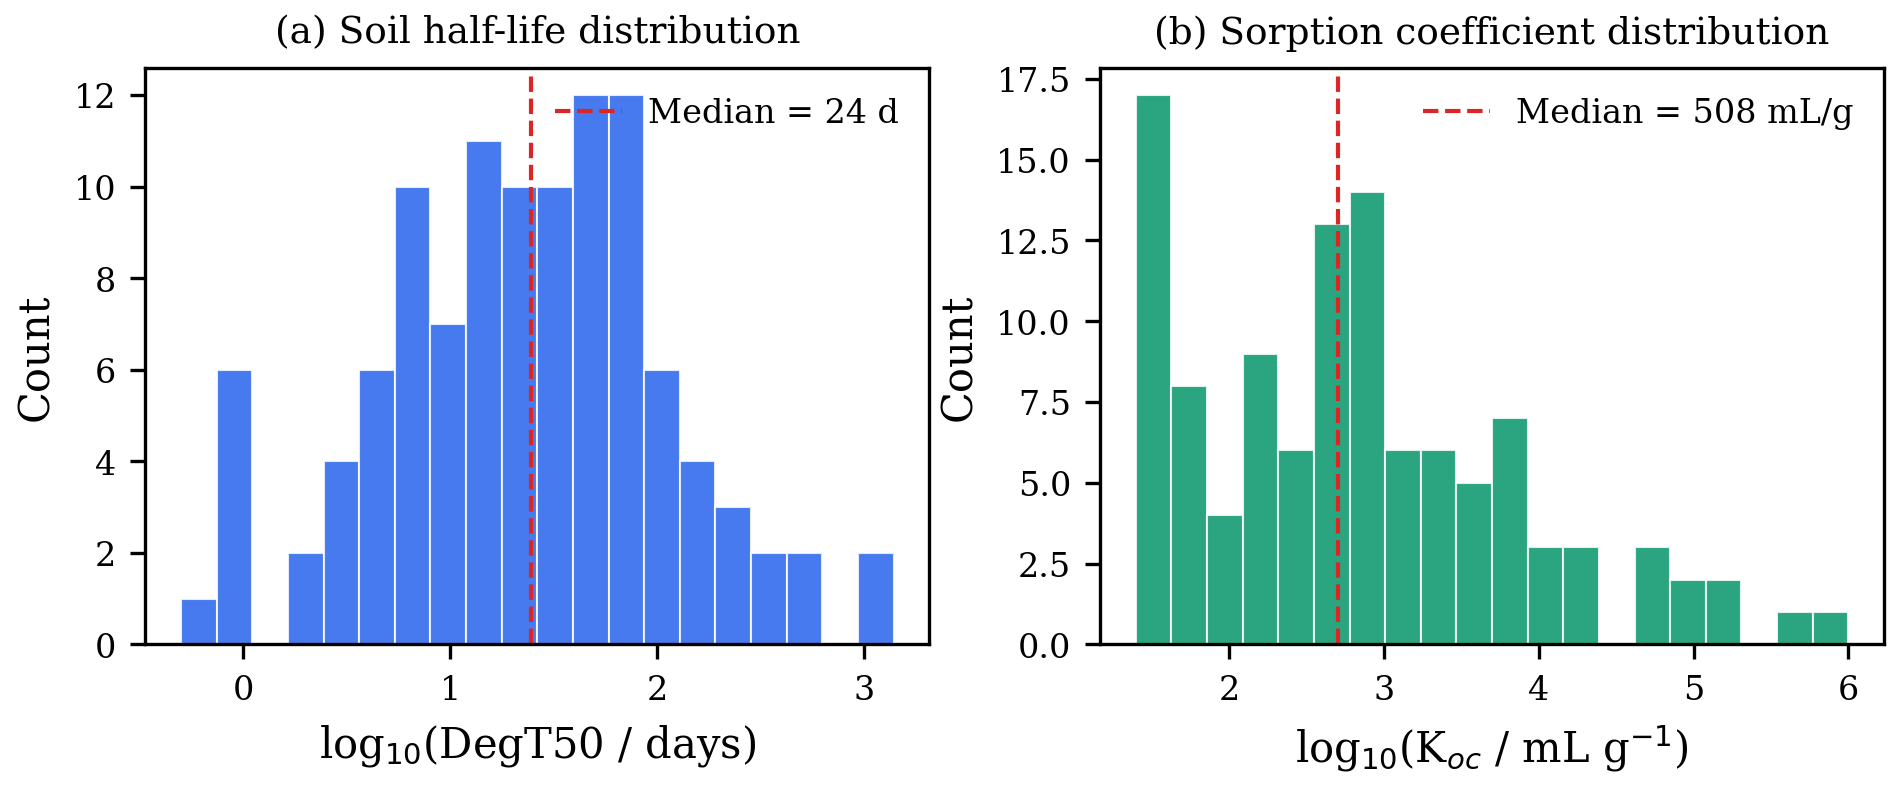
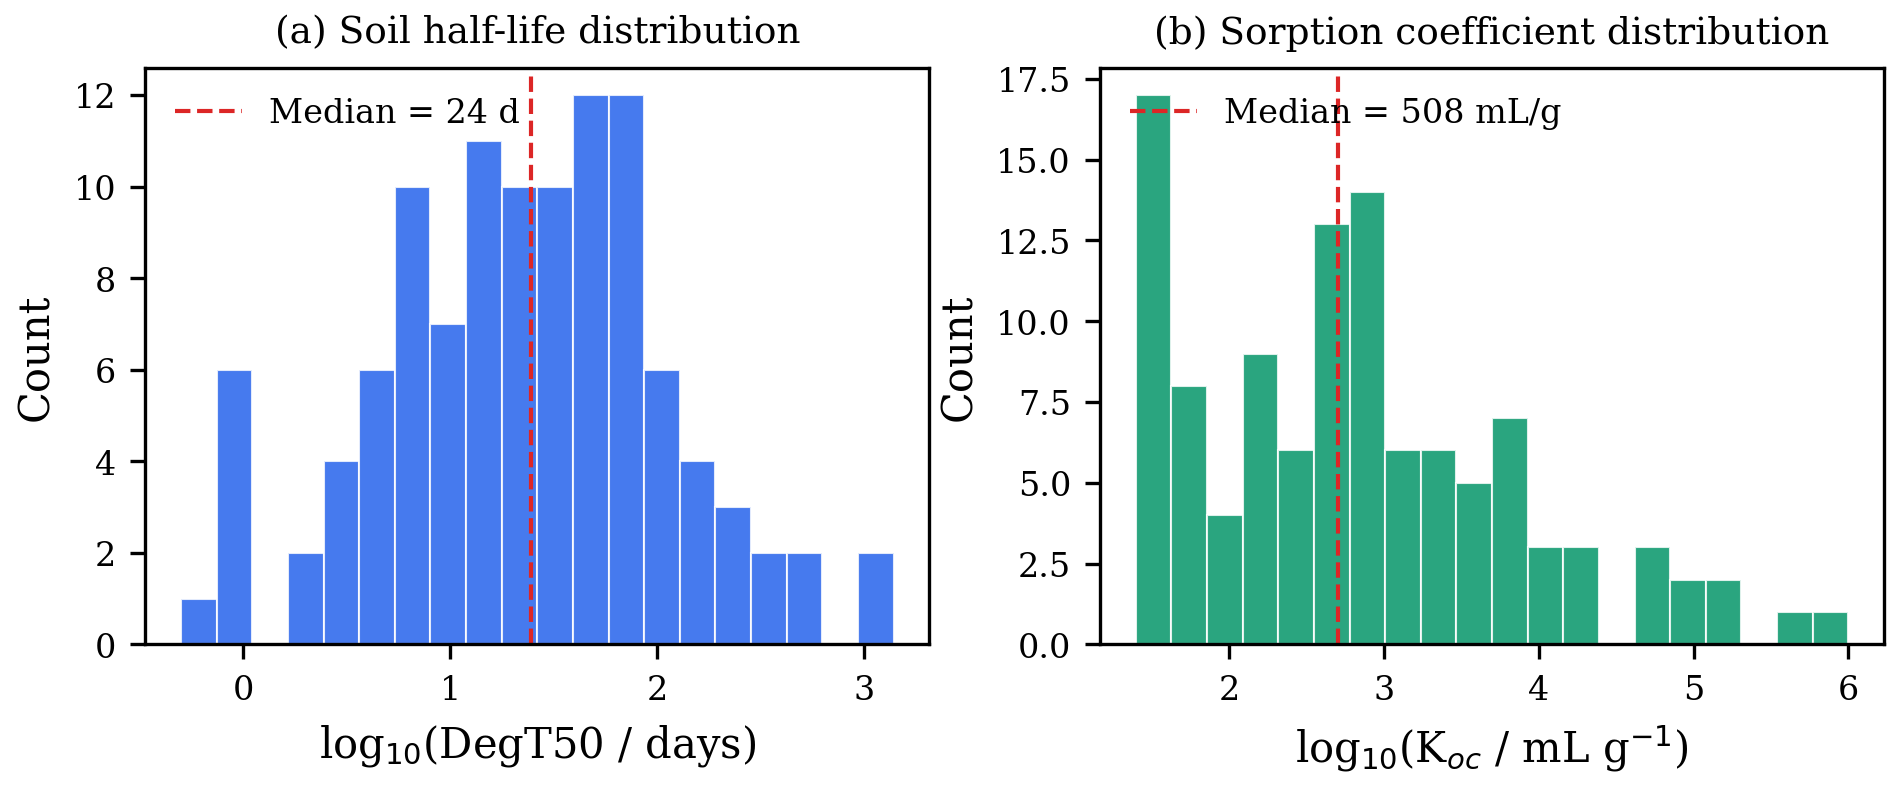
Fig 1: move legend to upper left to avoid overlapping bars

Changed region(s): [[0.5903, 0.1218, 0.9942, 0.1827], [0.0932, 0.1218, 0.2796, 0.1523], [0.3418, 0.1218, 0.466, 0.1523]]

diff --git a/manuscript/generate_figures.py b/manuscript/generate_figures.py
@@ -51,7 +51,7 @@ def fig1_dataset_overview():
     ax.set_ylabel("Count")
     ax.set_title("(a) Soil half-life distribution", fontsize=9)
     ax.axvline(np.median(log_deg), color="#dc2626", ls="--", lw=1, label=f"Median = {np.median(degT50):.0f} d")
-    ax.legend(frameon=False)
+    ax.legend(frameon=False, loc='upper left')
 
     # Koc histogram (log scale)
     ax = axes[1]
@@ -61,7 +61,7 @@ def fig1_dataset_overview():
     ax.set_ylabel("Count")
     ax.set_title("(b) Sorption coefficient distribution", fontsize=9)
     ax.axvline(np.median(log_koc), color="#dc2626", ls="--", lw=1, label=f"Median = {np.median(koc):.0f} mL/g")
-    ax.legend(frameon=False)
+    ax.legend(frameon=False, loc='upper left')
 
     plt.tight_layout()
     plt.savefig(os.path.join(FIGDIR, "fig1_dataset_overview.pdf"))
